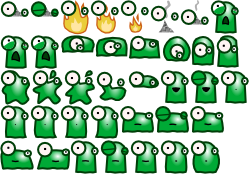
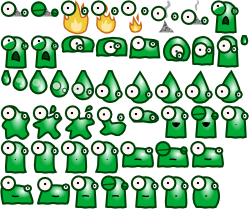
Spawn animation (must be splited to spawner)

diff --git a/Android/Slime/src/gamers/associate/Slime/items/custom/Slimy.java b/Android/Slime/src/gamers/associate/Slime/items/custom/Slimy.java
@@ -31,7 +31,9 @@ public class Slimy extends GameItemPhysic implements IBurnable {
 	public static String Anim_Wait_H = "wait-h";
 	public static String Anim_Wait_V = "wait-v";
 	public static String Anim_Splash = "splashed";
-	public static String Anim_Success = "success";	
+	public static String Anim_Success = "success";
+	public static String Anim_Spawn = "spawn";
+	public static String Anim_Spawn_Falling = "spawn-falling";
 	
 	public static float Default_Width = 24f;
 	public static float Default_Height = 26f;
@@ -113,6 +115,16 @@ public class Slimy extends GameItemPhysic implements IBurnable {
 		CCAction action = CCRepeatForever.action(CCSequence.actions(animate, reverse));		
 		this.currentAction = action;
 		this.sprite.runAction(this.currentAction);
+	}
+	
+	public void spawn() {
+		CCAnimate animateSpawn = CCAnimate.action(this.animationList.get(Anim_Spawn), false);
+		CCAnimate animateSpawnFalling = CCAnimate.action(this.animationList.get(Anim_Spawn_Falling), false);		
+		
+		CCSequence sequence = CCSequence.actions(animateSpawn, animateSpawnFalling);
+		this.currentAction = sequence;
+		this.sprite.runAction(this.currentAction);
+		
 	}
 	
 	public void land() {
@@ -242,7 +254,8 @@ public class Slimy extends GameItemPhysic implements IBurnable {
 	@Override
 	protected void runReferenceAction() {
 		this.waitAnim();
-		this.fadeIn();
+		// this.fadeIn();
+		this.spawn();
 	}
 
 	/* (non-Javadoc)

diff --git a/Android/Slime/src/gamers/associate/Slime/layers/LevelLayer.java b/Android/Slime/src/gamers/associate/Slime/layers/LevelLayer.java
@@ -51,8 +51,10 @@ public class LevelLayer extends CCLayer {
 		// start ticking (for physics simulation)
 		schedule(tickCallback);
 		if(this.level.getStartItem() != null) {			
-			this.level.getCameraManager().zoomInterpolateTo(this.level.getStartItem(), 1.0f, 0.3f);
-			this.level.getCameraManager().moveInterpolateTo(this.level.getStartItem(), 0.3f);
+//			this.level.getCameraManager().zoomInterpolateTo(this.level.getStartItem(), 1.0f, 0.3f);
+//			this.level.getCameraManager().moveInterpolateTo(this.level.getStartItem(), 0.3f);
+			this.level.getCameraManager().zoomCameraTo(1.0f);
+			this.level.getCameraManager().centerCameraOn(this.level.getStartItem().getPosition());
 		}
 	}
 

diff --git a/Android/Slime/src/gamers/associate/Slime/game/HardCodedLevelBuilder.java b/Android/Slime/src/gamers/associate/Slime/game/HardCodedLevelBuilder.java
@@ -151,8 +151,8 @@ public class HardCodedLevelBuilder {
 		
 		SlimeFactory.Platform.createBL(cX, cY, 200, 150);
 		// SpawnCannon spawnCannon = SlimeFactory.Cannon.create(200 - SpawnCannon.Default_Width / 2, 150 + SpawnCannon.Default_Height / 2);
-		level.setStartItem(SlimeFactory.Slimy.createJump(cX + 150, cY + 200, 1.0f));
-		SlimeFactory.Slimy.createJump(cX + 150, cY + 250, 1.0f);
+		level.setStartItem(SlimeFactory.Slimy.createJump(cX + 150, cY + 350, 1.0f));
+		SlimeFactory.Slimy.createJump(cX + 200, cY + 400, 1.0f);
 		cX += 200;
 		// SlimeFactory.Lava.createBL(cX, cY, 200, 50);
 		SlimeFactory.Platform.createBL(cX, cY, 100, 50);

diff --git a/Android/Slime/src/gamers/associate/Slime/items/custom/SlimyFactory.java b/Android/Slime/src/gamers/associate/Slime/items/custom/SlimyFactory.java
@@ -24,6 +24,8 @@ public class SlimyFactory extends GameItemPhysicFactory<Slimy> {
 		this.createAnim(Slimy.Anim_Wait_V, 5);
 		this.createAnim(Slimy.Anim_Splash, 5);
 		this.createAnim(Slimy.Anim_Success, 7);
+		this.createAnim(Slimy.Anim_Spawn, 8);
+		this.createAnim(Slimy.Anim_Spawn_Falling, 3);
 	}
 	
 	@Override
